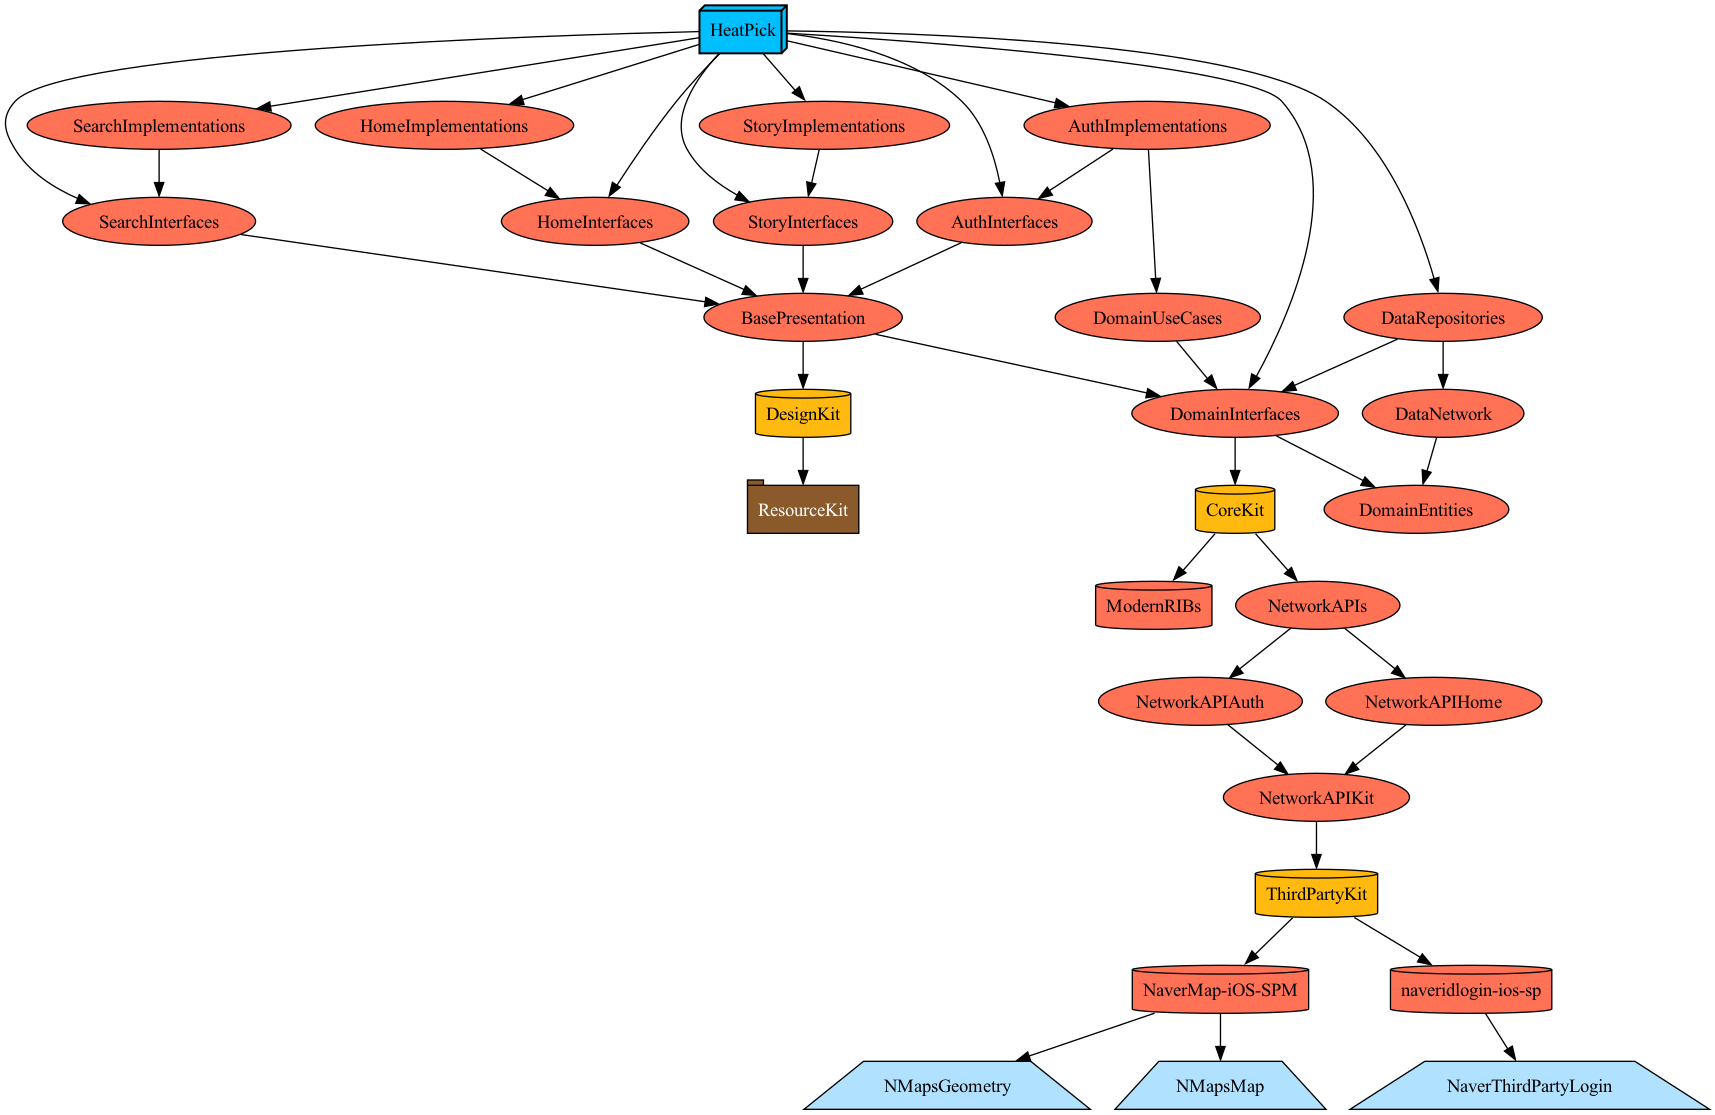
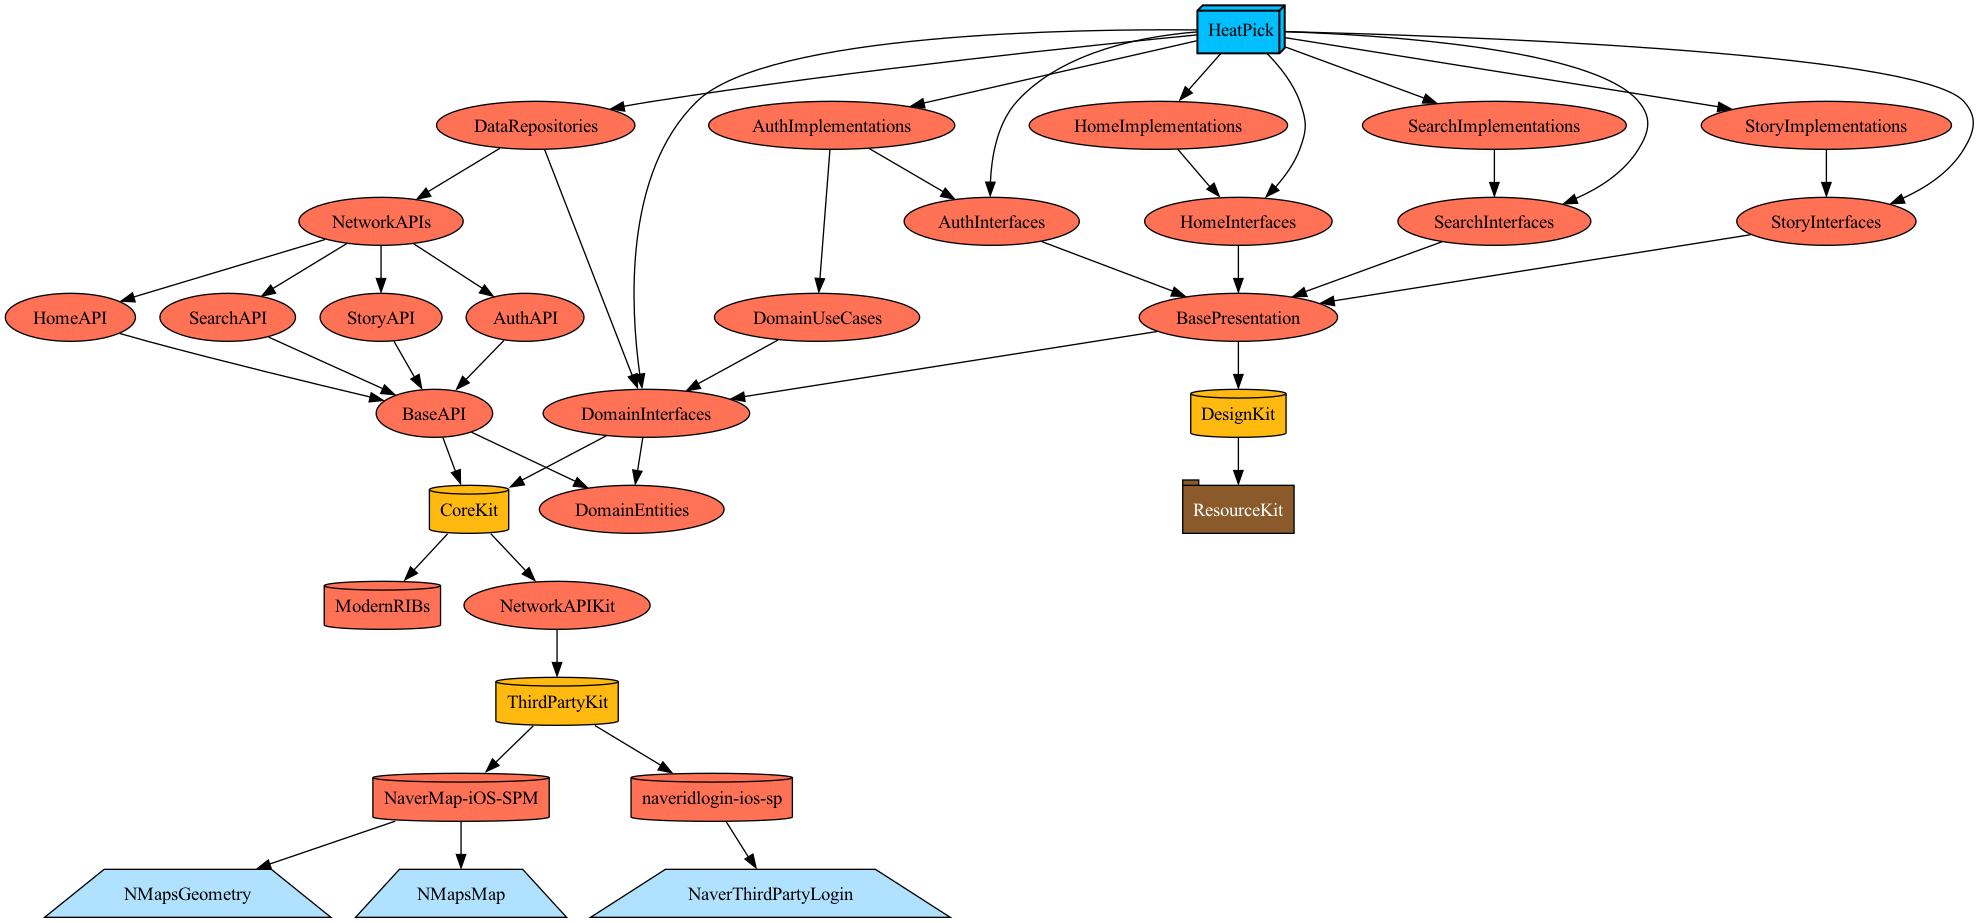
package: Network 모듈 수정

diff --git a/client/Plugins/UtilityPlugin/ProjectDescriptionHelpers/Dependency+Data.swift b/client/Plugins/UtilityPlugin/ProjectDescriptionHelpers/Dependency+Data.swift
@@ -17,6 +17,27 @@ public extension TargetDependency.Target.Data {
         )
     }
     static let Repositories = project(name: "Repositories")
-    static let Network = project(name: "Network")
     static let Storages = project(name: "Storages")
+}
+
+public extension TargetDependency.Target.Data.API {
+    static let group = "API"
+    static func project(name: String) -> TargetDependency {
+        return .project(
+            target: "\(name)\(group)",
+            path: .relativeToRoot("Targets/Data/Network/\(name)")
+        )
+    }
+    static let Base = project(name: "Base")
+    static let Home = project(name: "Home")
+    static let Auth = project(name: "Auth")
+    static let Story = project(name: "Story")
+    static let Search = project(name: "Search")
+}
+
+public extension TargetDependency.Target.Data.API {
+    static let NetworkAPIs: TargetDependency = .project(
+        target: "NetworkAPIs",
+        path: .relativeToRoot("Targets/Data/Network/NetworkAPIs")
+    )
 }

diff --git a/client/Plugins/UtilityPlugin/ProjectDescriptionHelpers/Dependency+Project.swift b/client/Plugins/UtilityPlugin/ProjectDescriptionHelpers/Dependency+Project.swift
@@ -12,7 +12,9 @@ extension TargetDependency {
     public struct Target {
         public struct App {}
         public struct Domain {}
-        public struct Data {}
+        public struct Data {
+            public struct API {}
+        }
         
         public struct Presentation {
             public struct BasePresentation {}
@@ -64,9 +66,6 @@ public extension TargetDependency.Target.Core.Network {
         )
     }
     static let NetworkAPIKit = project(name: "NetworkAPIKit")
-    static let NetworkAPIHome = project(name: "NetworkAPIHome")
-    static let NetworkAPIAuth = project(name: "NetworkAPIAuth")
-    static let NetworkAPIs = project(name: "NetworkAPIs")
 }
 
 // MARK: - DesignSystem

diff --git a/client/Targets/Data/Network/NetworkAPIs/Project.swift b/client/Targets/Data/Network/NetworkAPIs/Project.swift
@@ -3,9 +3,12 @@ import ProjectDescriptionHelpers
 import UtilityPlugin
 
 let project = Project.framework(
-    name: "DataNetwork",
+    name: "NetworkAPIs",
     featureTargets: [.staticLibrary, .tests],
     dependencies: [
-        .Target.Domain.Entities,
+        .Target.Data.API.Home,
+        .Target.Data.API.Auth,
+        .Target.Data.API.Story,
+        .Target.Data.API.Search
     ]
 )

diff --git a/client/Targets/Data/Network/Base/Project.swift b/client/Targets/Data/Network/Base/Project.swift
@@ -3,10 +3,10 @@ import ProjectDescriptionHelpers
 import UtilityPlugin
 
 let project = Project.framework(
-    name: "CoreKit",
-    featureTargets: [.framework],
+    name: "BaseAPI",
+    featureTargets: [.staticLibrary, .tests],
     dependencies: [
-        .Target.Core.Network.NetworkAPIKit,
-        .SPM.ModernRIBs
+        .Target.Domain.Entities,
+        .Target.Core.CoreKit
     ]
 )

diff --git a/client/Targets/Data/Network/Search/Project.swift b/client/Targets/Data/Network/Search/Project.swift
@@ -3,10 +3,9 @@ import ProjectDescriptionHelpers
 import UtilityPlugin
 
 let project = Project.framework(
-    name: "CoreKit",
-    featureTargets: [.framework],
+    name: "SearchAPI",
+    featureTargets: [.staticLibrary, .tests],
     dependencies: [
-        .Target.Core.Network.NetworkAPIKit,
-        .SPM.ModernRIBs
+        .Target.Data.API.Base
     ]
 )

diff --git a/client/Targets/Data/Network/Story/Project.swift b/client/Targets/Data/Network/Story/Project.swift
@@ -3,10 +3,9 @@ import ProjectDescriptionHelpers
 import UtilityPlugin
 
 let project = Project.framework(
-    name: "CoreKit",
-    featureTargets: [.framework],
+    name: "StoryAPI",
+    featureTargets: [.staticLibrary, .tests],
     dependencies: [
-        .Target.Core.Network.NetworkAPIKit,
-        .SPM.ModernRIBs
+        .Target.Data.API.Base
     ]
 )

diff --git a/client/Targets/Data/Network/Auth/Project.swift b/client/Targets/Data/Network/Auth/Project.swift
@@ -3,10 +3,9 @@ import ProjectDescriptionHelpers
 import UtilityPlugin
 
 let project = Project.framework(
-    name: "CoreKit",
-    featureTargets: [.framework],
+    name: "AuthAPI",
+    featureTargets: [.staticLibrary, .tests],
     dependencies: [
-        .Target.Core.Network.NetworkAPIKit,
-        .SPM.ModernRIBs
+        .Target.Data.API.Base
     ]
 )

diff --git a/client/Targets/Data/Network/Home/Project.swift b/client/Targets/Data/Network/Home/Project.swift
@@ -3,10 +3,9 @@ import ProjectDescriptionHelpers
 import UtilityPlugin
 
 let project = Project.framework(
-    name: "CoreKit",
-    featureTargets: [.framework],
+    name: "HomeAPI",
+    featureTargets: [.staticLibrary, .tests],
     dependencies: [
-        .Target.Core.Network.NetworkAPIKit,
-        .SPM.ModernRIBs
+        .Target.Data.API.Base
     ]
 )

diff --git a/client/Targets/Data/Repositories/Project.swift b/client/Targets/Data/Repositories/Project.swift
@@ -7,6 +7,6 @@ let project = Project.framework(
     featureTargets: [.staticLibrary, .tests],
     dependencies: [
         .Target.Domain.Interfaces,
-        .Target.Data.Network
+        .Target.Data.API.NetworkAPIs
     ]
 )

diff --git a/client/Targets/App/Sources/AppRoot/AppRootComponent.swift b/client/Targets/App/Sources/AppRoot/AppRootComponent.swift
@@ -10,8 +10,8 @@ import Foundation
 
 import ModernRIBs
 
+import AuthAPI
 import NetworkAPIKit
-import NetworkAPIAuth
 import DomainUseCases
 import DomainInterfaces
 import DataRepositories

diff --git a/client/Targets/Data/Repositories/Sources/AuthRepository.swift b/client/Targets/Data/Repositories/Sources/AuthRepository.swift
@@ -8,9 +8,8 @@
 
 import Combine
 import Foundation
-import DataNetwork
+import AuthAPI
 import NetworkAPIKit
-import NetworkAPIAuth
 import DomainEntities
 import DomainInterfaces
 

diff --git a/client/Targets/Data/Network/Auth/Tests/Sources/dummy.swift b/client/Targets/Data/Network/Auth/Tests/Sources/dummy.swift
@@ -1,0 +1,1 @@
+// dummy.swift
